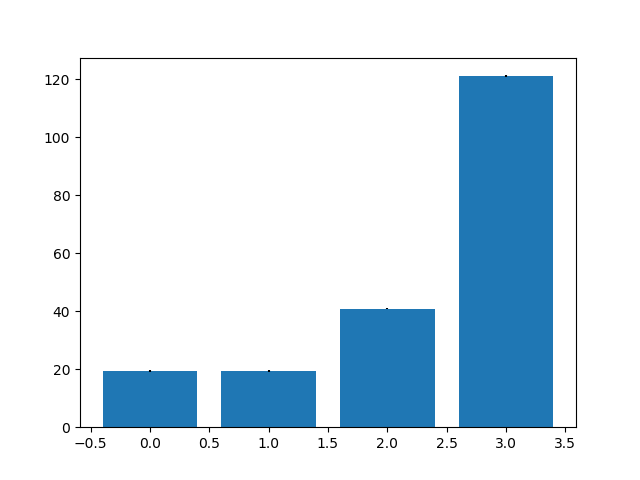
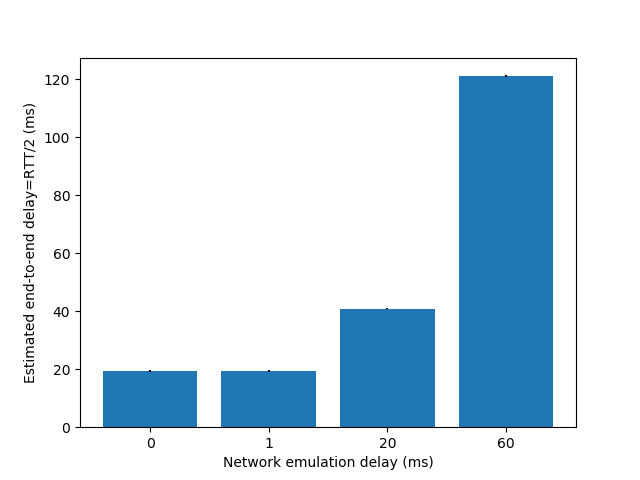
Add labels and units to the plot

diff --git a/data/plot.py b/data/plot.py
@@ -17,6 +17,9 @@ std = df.std(axis = 1)
 n = df.shape[1]
 yerr = std / np.sqrt(n) * stats.t.ppf(1-0.05/2, n - 1)
 
-#plt.figure()
-plt.bar(range(df.shape[0]), mean, yerr = yerr)
+x_axis = ['0', '1', '20', '60']
+
+plt.xlabel('Network emulation delay (ms)')
+plt.ylabel('Estimated end-to-end delay=RTT/2 (ms)')
+plt.bar(x_axis, mean, yerr = yerr)
 plt.savefig('plt.png')
